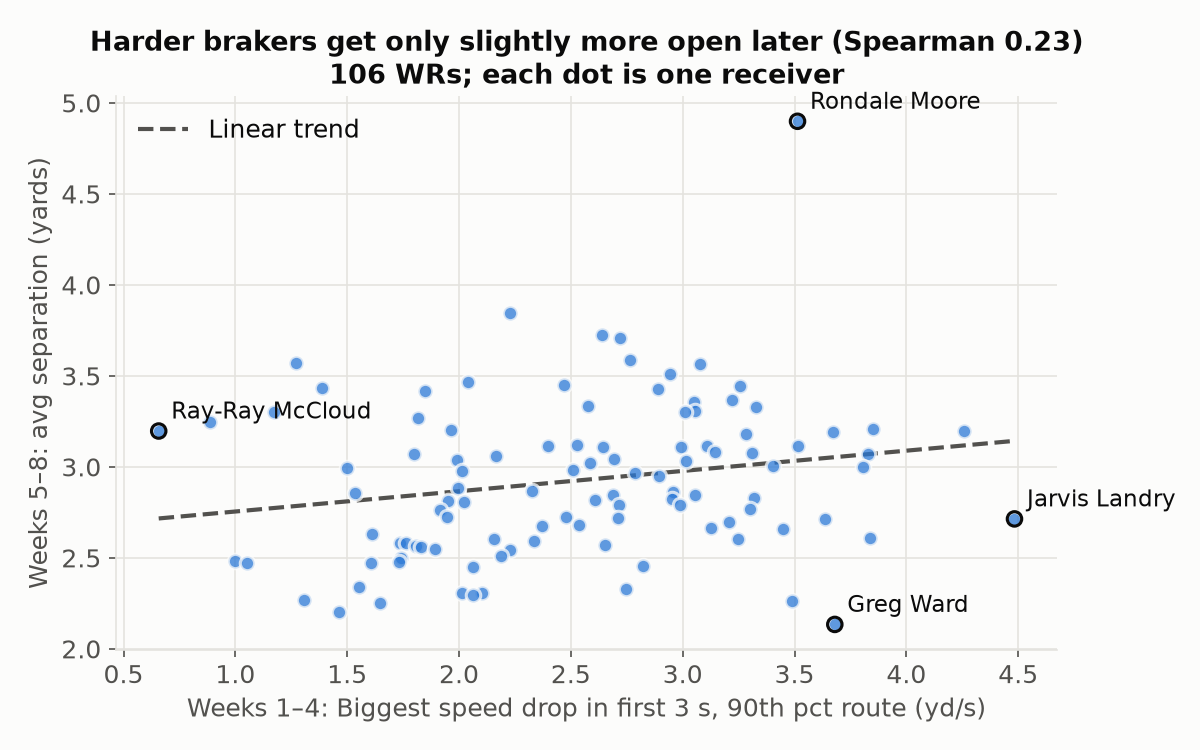
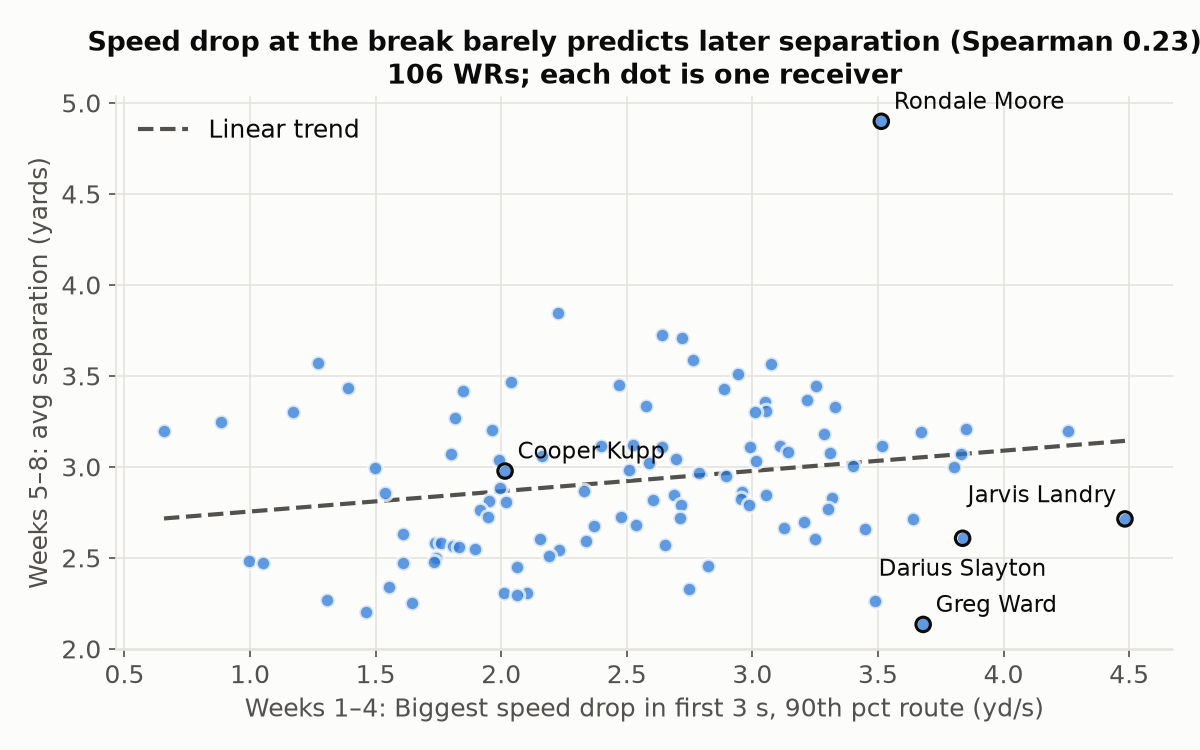
Scatter: Spearman in title, label Kupp/Slayton/Moore

diff --git a/src/04_charts.py b/src/04_charts.py
@@ -15,7 +15,9 @@ import pandas as pd
 
 TABLES = "outputs/tables"
 FIGS = "outputs/figures"
-FEATURE = "speed_drop"   # strongest gas/brakes feature (Spearman with avg_separation); confirm with Leo
+FEATURE = "speed_drop"   # strongest brakes feature (Spearman 0.23 with avg_separation); confirmed with Leo
+LABEL_PLAYERS = ["Cooper Kupp", "Darius Slayton", "Rondale Moore"]
+LABEL_OFFSETS = {"Darius Slayton": (0, -18, "center"), "Jarvis Landry": (-4, 8, "right")}  # avoid overlaps
 FEATURE_LABEL = {"speed_drop": "Biggest speed drop in first 3 s, 90th pct route (yd/s)",
                  "peak_decel": "Hardest deceleration in first 3 s, 90th pct route (yd/s²)"}
 
@@ -76,16 +78,19 @@ def metric_vs_separation():
     xs = np.linspace(x.min(), x.max(), 50)
     ax.plot(xs, icpt + slope * xs, color=INK2, lw=2, ls="--", zorder=1, label="Linear trend")
 
-    # standouts: most / least open, hardest / softest braker
-    picks = [y.idxmax(), y.idxmin(), x.idxmax(), x.idxmin()]
-    for i in dict.fromkeys(picks):
-        ax.annotate(m.loc[i, "player_name"], (x[i], y[i]), xytext=(6, 6), textcoords="offset points",
-                    fontsize=11, color=INK)
+    # Leo's picks first, then hardest braker and least open; at most 5 labels
+    named = [m.index[m["player_name"] == n][0] for n in LABEL_PLAYERS if (m["player_name"] == n).any()]
+    picks = list(dict.fromkeys(named + [y.idxmax(), x.idxmax(), y.idxmin()]))[:5]
+    for i in picks:
+        name = m.loc[i, "player_name"]
+        dx, dy, ha = LABEL_OFFSETS.get(name, (6, 6, "left"))
+        ax.annotate(name, (x[i], y[i]), xytext=(dx, dy), textcoords="offset points",
+                    fontsize=11, color=INK, ha=ha)
         ax.scatter(x[i], y[i], s=48, facecolor="none", edgecolor=INK, lw=1.5, zorder=3)
 
     ax.set_xlabel(f"Weeks 1–4: {FEATURE_LABEL.get(FEATURE, FEATURE)}")
     ax.set_ylabel("Weeks 5–8: avg separation (yards)")
-    ax.set_title(f"Harder brakers get only slightly more open later (Spearman {rho:.2f})\n"
+    ax.set_title(f"Speed drop at the break barely predicts later separation (Spearman {rho:.2f})\n"
                  f"{len(m)} WRs; each dot is one receiver")
     ax.legend(loc="upper left", frameon=False)
     fig.tight_layout()
